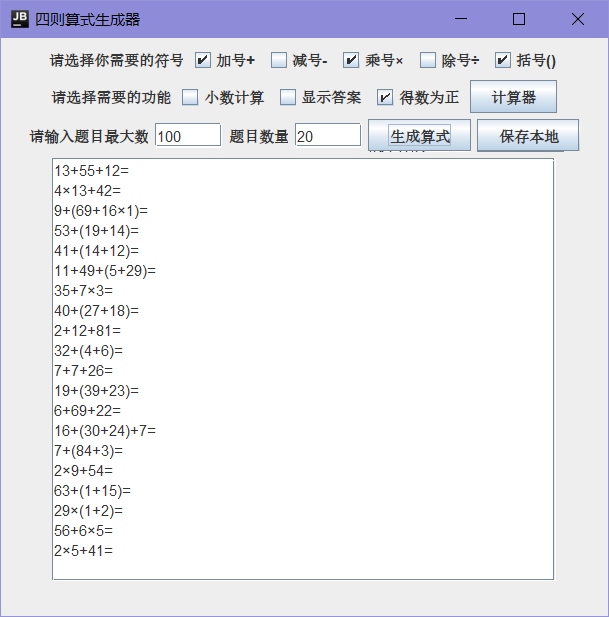
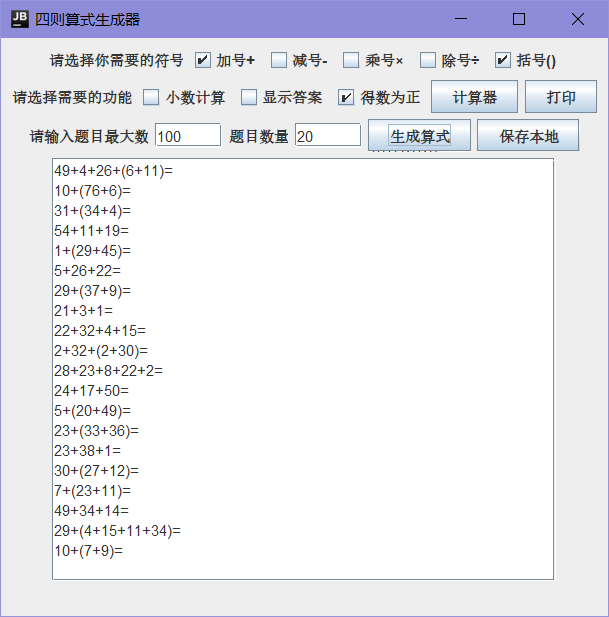
V1.3

Changed region(s): [[0.0936, 0.2464, 0.2808, 0.9238], [0.0, 0.1232, 0.9984, 0.1848]]

diff --git a/README.md b/README.md
@@ -4,21 +4,16 @@
 
 可以在加减乘除中选择运算，可以选择是否有括号，是否有小数，结论是否为正数等
 
-生成的算式可以保存到本地中
+生成的算式可以保存到本地中或打印出来
 
 另外本程序附带计算器，可以进行一系列简单的运算
 
-<img src="https://raw.githubusercontent.com/KobayashiSouryuu/FourOperationsGenerator/master/%E6%BC%94%E7%A4%BA1.png" width="50%">
-<img src="https://raw.githubusercontent.com/KobayashiSouryuu/FourOperationsGenerator/master/%E6%BC%94%E7%A4%BA2.png" width="50%">
-<img src="https://raw.githubusercontent.com/KobayashiSouryuu/FourOperationsGenerator/master/%E6%BC%94%E7%A4%BA3.png" width="50%">
-<img src="https://raw.githubusercontent.com/KobayashiSouryuu/FourOperationsGenerator/master/%E6%BC%94%E7%A4%BA4.png" width="25%">
-
 ## 已知bug
 
-1.最大数为1且勾选小数时，会出现大于1的数
+1.勾选小数时不会出现(-1,1)区间的小数
 
-2.勾选小数时不会出现(-1,1)区间的小数
+2.最大数输入为1且勾选小数时，会出现大于1的小数
 
-3.java的double精度问题导致在勾选除法或小数时部分计算结果有细小误差，展现出来的假设答案是6，可能显示为6.0000000001
+3.Java的double精度问题导致在勾选除法或小数时部分计算结果有细小误差，假设应该是6，实际可能显示出的数字为6.0000000001
 
 ##### 如有其他bug欢迎反馈
